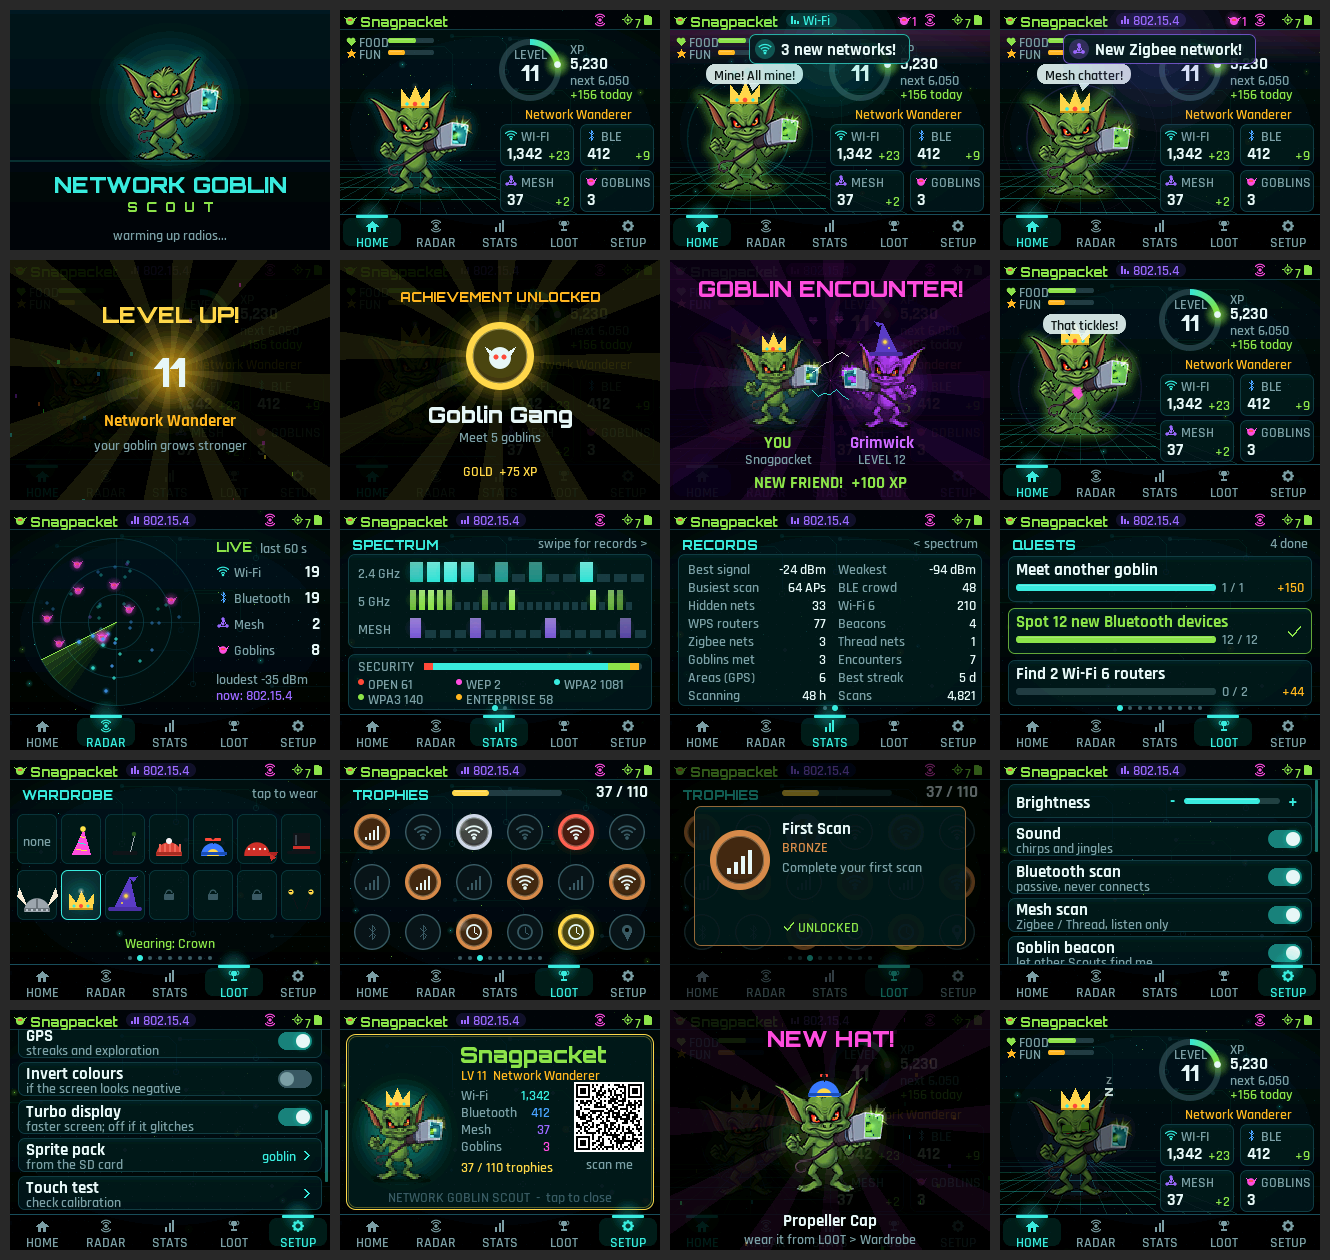
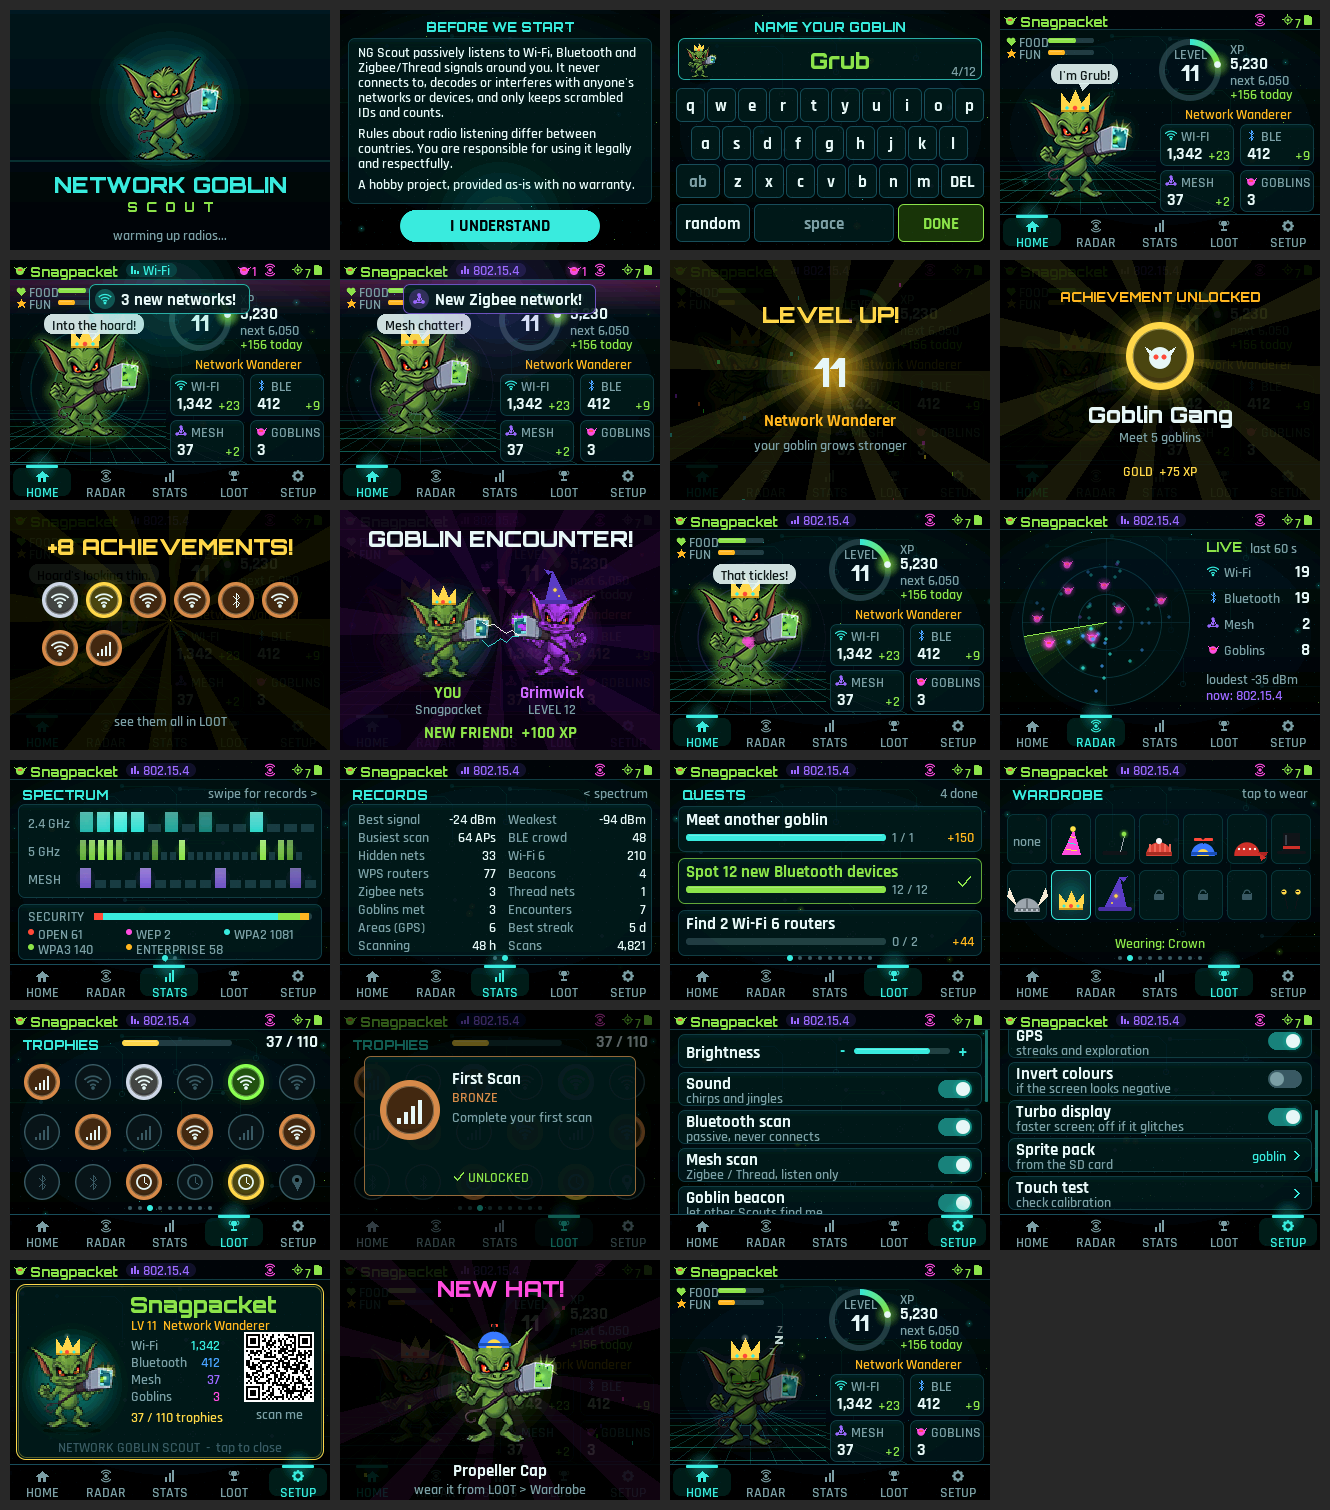
docs: battery wiring plan, sync/leaderboard design, updating guide
docs/battery.md reads the power path off the schematic (D1 from VBUS,
two AMS1117s, Q1 P-FET on P5 pin 1), sets two safety rules, and
recommends PowerBoost 1000C or IP5306 + Schottky + MAX17048 on CN1.
docs/sync-plan.md: what is (never) uploaded, QR pairing, signed
uploads, API sketch and anti-cheat (incl. two-sided encounters).
README explains how to update without losing the goblin.

Claude-Session: https://claude.ai/code/session_01TTpWUDgkbVCjWgz3LKJZjU

diff --git a/docs/sync-plan.md b/docs/sync-plan.md
@@ -1,0 +1,83 @@
+# Goblin Sync & leaderboards: design plan
+
+Goal: a Pwnagotchi-style website where goblins upload a **fun summary** (level, hoard counts,
+trophies, hats, friends), with public profiles and leaderboards. Nothing here is built yet;
+this is the plan to agree on before writing firmware or server code.
+
+## 1. Privacy contract (what is and isn't uploaded)
+
+**Uploaded** (and shown publicly on the goblin's profile):
+
+| Field | Example |
+|---|---|
+| goblin id (random, from the beacon) | `5a1d2b3c` |
+| goblin name, hat, colour | `Grub`, `Crown`, hue 200 |
+| level, XP, title | 23, 34 810, "Packet Hunter" |
+| counts: Wi-Fi, 5 GHz, BLE, mesh, PANs, goblins met, encounters, areas | 1 342, 420, ... |
+| achievement ids, hats unlocked, quests done | `["first_scan", ...]` |
+| firmware version | `0.4.0` |
+
+**Never uploaded:** MAC addresses, SSIDs, any salted id from the hoard files, GPS coordinates,
+exploration-cell ids, timestamps of individual sightings. The device never sends what it heard,
+only how much.
+
+The design rule "the only transmission is the goblin beacon" becomes: *scanning stays passive;
+the only other traffic is a sync the owner starts, to a network the owner chose.*
+
+## 2. Getting online
+
+- **Setup > Sync > Wi-Fi:** pick your network from a list, type its password on the on-screen
+  keyboard (already built for naming). Credentials go in NVS only.
+- **Sync** connects, uploads, disconnects, and goes back to passive scanning. Manual first;
+  maybe "auto-sync at home" later.
+
+## 3. Pairing a goblin to an account (QR, no typing)
+
+1. On the website: log in, then "Add a goblin".
+2. On the device: Setup > Sync > Pair. The goblin shows a QR code (the share-card code
+   already does this) for `https://<site>/pair?g=<goblinId>&c=<6-digit code>`.
+3. Scan it with your phone while logged in: the site links the goblin to your account.
+4. On its next sync the device receives a **per-goblin secret** and stores it in NVS. Every
+   later upload is signed with **HMAC-SHA256(secret, body + timestamp)**.
+
+## 4. API sketch (v1)
+
+```
+POST /api/v1/pair/start      { goblinId, code }                       -> 201
+POST /api/v1/sync            { goblinId, ts, stats{...}, sig }        -> 200 { rank, motd, secret? }
+GET  /api/v1/goblin/:id      public profile
+GET  /api/v1/leaderboard?board=xp|wifi|mesh|goblins|trophies&period=week|all
+```
+
+The sync body is about 1–2 KB of JSON, built from the fields in section 1.
+
+## 5. Anti-cheat (you can't stop it, but you can make it boring)
+
+The firmware is open source, so a determined person *can* forge uploads. Aim for "not worth it":
+
+- **Signed uploads** (per-goblin secret): stops casual curl scripts and impersonation.
+- **Plausibility checks** on the server:
+  - counters only go up;
+  - XP per hour since the last sync is capped;
+  - ratios make sense (5 GHz ≤ Wi-Fi total; unique ≤ sightings);
+  - the level matches the XP curve.
+- **Encounters are witnessed twice.** When two goblins meet, *both* report it, so the server can
+  cross-check them. The "goblins met" board only counts encounters both sides agree on. Hard to
+  fake without a real second device.
+- **Rate limits** per goblin and per IP. Implausible goblins are quietly hidden from the
+  leaderboards, not banned, so cheaters get no signal to tune against.
+- **Weekly boards** reset often, so one inflated profile doesn't sit at the top forever.
+
+## 6. Website ideas
+
+- Goblin profile pages with the share-card look, hats, trophy shelf and friends list.
+- Leaderboards: XP, Wi-Fi, mesh, goblins met, trophies, hat collectors, longest streak.
+- A "goblin of the week", firmware download and changelog, and links to your other projects.
+
+## 7. Suggested order
+
+1. Firmware: Wi-Fi credentials screen and a "Sync now" button that POSTs to a test endpoint.
+2. Server: one endpoint plus a leaderboard page (small: e.g. Cloudflare Workers + D1, or a FastAPI
+   + Postgres box).
+3. QR pairing and signed uploads.
+4. Encounter cross-checks and plausibility rules.

diff --git a/docs/battery.md b/docs/battery.md
@@ -1,0 +1,69 @@
+# Battery power for NG Scout
+
+The NM-CYD-C5 has no charger and no battery monitoring, so going portable needs a small
+add-on. This is the plan, based on the v1.0 schematic. **Nothing here has been tested on
+hardware yet**: measure before you trust it.
+
+## What the board already does with power
+
+```
+USB-C VBUS ──D1 (diode)──┬── 5V rail ──┬── AMS1117-3.3 ── 3.3V_ESP (ESP32-C5)
+                         │             └── AMS1117-3.3 ── 3.3V (display, SD, touch...)
+P5 pin 1 ──Q1 (AO3401A)──┘
+```
+
+- **D1** means anything you put on the 5 V rail can't flow back into your computer's USB port.
+- **Q1** is a P-channel MOSFET with its gate tied to ground. That's reverse-polarity
+  protection. Once it's on it conducts both ways, so **P5 pin 1 can be used as a 5 V input**,
+  not just an output for the GPS.
+- The **AMS1117** regulators need about **4.4 V or more** on the 5 V rail to produce a clean 3.3 V.
+
+## Two rules (break these and you'll cook something)
+
+1. **Never wire a LiPo straight to the 3V3 pad.** A full cell is 4.2 V, above the ESP32-C5's
+   3.6 V maximum, and it would also push current backwards into both regulators.
+2. **Never wire a LiPo straight to the 5 V pad.** At 3.7 V the regulators drop out and the board
+   browns out. You need a **boost converter to 5 V**.
+
+## Recommended setups
+
+### A. Best: Adafruit PowerBoost 1000C + LiPo
+
+- **Charger + 5 V boost** in one, with *load sharing* (it runs the board from USB while it charges),
+  a low-battery pin, and an enable pin for an on/off switch.
+- **Battery:** 1S LiPo, 1200–2500 mAh, **with a protection circuit**, JST-PH connector.
+- **Wiring:** PowerBoost `5V` → **Schottky diode** (SS14 or 1N5817, stripe towards the board)
+  → board **5V pad** (or P5 pin 1); PowerBoost `GND` → board GND. Slide switch between the
+  PowerBoost `EN` and `GND` pins.
+- **Why the diode:** when the board's own USB is plugged in, its 5 V rail (~4.7 V through D1)
+  would otherwise push current backwards into the boost converter's output. The diode costs
+  ~0.3 V, leaving ~4.7 V on the rail, which is still enough for the regulators.
+- **Charge** through the PowerBoost's own USB port.
+
+### B. Budget: IP5306 "power bank" module (USB-C)
+
+- Cheap all-in-one charger + 5 V boost, often with 4 LEDs showing charge level.
+- Same wiring and diode as above.
+- **Catch:** IP5306 boards switch themselves off below ~45 mA. NG Scout normally draws more than
+  that, so it should stay on, but some modules need a button press to wake.
+
+## Battery percentage on screen: MAX17048 fuel gauge
+
+- A MAX17048 breakout (Adafruit #5580, SparkFun, or a generic one) reads the cell and reports
+  **percentage, voltage, and whether it's charging** over I2C (address 0x36).
+- **Connect it to CN1:** pin 1 = 3.3 V, pin 2 = SDA (IO9), pin 3 = SCL (IO8), pin 4 = GND.
+  ⚠ CN1 is **not** in the Qwiic/STEMMA QT pin order (GND, 3V3, SDA, SCL), so make a cable
+  by pin name, not by plugging two "matching" connectors together.
+- The gauge's battery pins go across the LiPo (+ and −).
+- **Firmware plan:** battery % and a charging bolt in the status bar, a sleepy "low battery"
+  goblin mood (the `LowBattery` state already exists), and a few achievements
+  ("Unplugged": an hour on battery).
+
+## How long will it last?
+
+Rough guess until someone measures it: the board probably draws 150–250 mA at 5 V with the
+screen on and all radios scanning. On a 2000 mAh cell, through a ~85 % efficient boost, that's
+roughly **6–9 hours**. Pocket mode (screen off) should stretch it.
+
+A cheap USB power meter between the charger and the board will give real numbers. Please
+report them, and I'll tune the estimates and add a battery-saver mode.

diff --git a/README.md b/README.md
@@ -84,6 +84,14 @@ firmware draws, minus the smudges on your screen.</sub>
      `esptool --chip esp32c5 --port <COM5 or /dev/ttyACM0> write-flash 0x0 firmware.factory.bin`
 3. If it won't connect: hold **BOOT**, tap **RESET**, let go of BOOT, try again.
 4. Copy `sd_card/` onto a FAT32 microSD card and slot it in. The goblin needs somewhere to keep its hoard.
+5. First boot: accept the disclaimer and **name your goblin** on the on-screen keyboard. Scanning starts after that.
+
+### Updating without losing your goblin
+
+Your progress lives on the **SD card** (`/scout/`), so re-flashing doesn't touch it.
+- **Updates:** flash `firmware.bin` at `0x10000` (app only, keeps the chip's settings too).
+- **First install or recovery:** flash `firmware.factory.bin` at `0x0`. This also wipes the chip's
+  internal settings, but the goblin's name and ID are restored from the SD card at the next boot.
 
 ### The proper way (PlatformIO)
 
@@ -107,6 +115,7 @@ ESP32-C5). It's big. Make a sandwich.
 - **BOOT button** = pocket mode: screen off, goblin keeps sniffing. Tap the screen to wake it.
 - **Setup → Turbo display** runs the screen at full speed. If you see glitches, turn it off.
 - **Setup → Goblin beacon** controls whether other goblins can find *yours* (see privacy below).
+- **Setup → About** to rename your goblin.
 
 ### Hardware bring-up mode
 
@@ -206,9 +215,9 @@ sd_card/                 copy to the microSD card
 - [x] 110 achievements, levels, streaks, exploration
 - [x] Hunger & boredom, quest boards, 13 hats, radar, share card with QR code
 - [x] Animated goblin and a UI that doesn't look like 1997
-- [ ] **Battery.** The board has no charger or battery sense. Plan: LiPo → charger/boost → 5 V on P5 pin 1,
-      plus an I2C fuel gauge (MAX17048-ish) on CN1
-- [ ] Account pairing, summary sync and a website for comparing hoards
+- [x] First-run disclaimer, name your goblin, progress survives re-flashing
+- [ ] **Battery.** The board has no charger or battery sense. Wiring plan and parts: [docs/battery.md](docs/battery.md)
+- [ ] Account pairing, summary sync and a website with leaderboards: [docs/sync-plan.md](docs/sync-plan.md)
 - [ ] ~~Temperature stat~~ the on-board AHT20 turned out to be imaginary (not fitted)
 
 ## Credits

diff --git a/CLAUDE.md b/CLAUDE.md
@@ -140,6 +140,11 @@ BOOT held during power-on/flashing = download mode (confirmed), hence the 1.5 s 
 Not fitted / not present: **AHT20 (U28) is not populated** on the owner's board (schematic only);
 the environment stat was dropped. GPS and speaker not connected yet.
 
+v0.3.0 on hardware: smooth animations, all features working (owner report). Owner saw progress
+"lost" after flashing: the factory image wipes NVS (goblin id) — fixed in v0.3.1 by mirroring it to SD.
+Power path (from schematic): USB VBUS -D1-> 5V rail -> 2x AMS1117-3.3; P5 pin 1 <-> 5V rail via
+Q1 AO3401A (P-FET, gate to GND = reverse-polarity protection, conducts both ways).
+
 v0.2 on hardware: boots, runs, all radios scanning (owner report). GUI "a tiny bit laggy" →
 v0.2.1 adds Turbo display + changed-areas-only flush. Owner log (v0.2.1): crystal 48 MHz,
 render ~200 ms, push 33 ms, 2-4 fps → render was the bottleneck (soft-float). v0.2.2 rewrote the
@@ -164,5 +169,9 @@ Done in v0.3 (compiles; awaiting hardware test): hunger/boredom + happy XP bonus
 (sent in beacon flags bits 0-4), radar screen, share card with QR (`NG_SHARE_URL`), goblin babble.
 Display DMA (IDF spi_master/esp_lcd for the whole shared bus) is deferred until the v0.2.2 `ui:` timing
 line shows whether push or render is the remaining bottleneck.
-Next: battery support (LiPo -> charger/boost -> 5 V on P5 pin 1, MAX17048-style fuel gauge on I2C)
--> account pairing and summary sync.
+Done in v0.3.1: goblin id/name mirrored in state.json (factory flash wipes NVS: 0xFF over 0x9000-0xDFFF),
+state.json.bak recovery, save within 3 s of big events, first-run disclaimer + naming keyboard,
+achievement batching.
+Next: battery support (plan + wiring rules in docs/battery.md: boost to 5 V via Schottky into the 5V
+pad or P5 pin 1, never LiPo on 3V3/5V directly; MAX17048 on CN1) -> sync/leaderboards (docs/sync-plan.md;
+rule 7 will need amending for owner-initiated sync).
